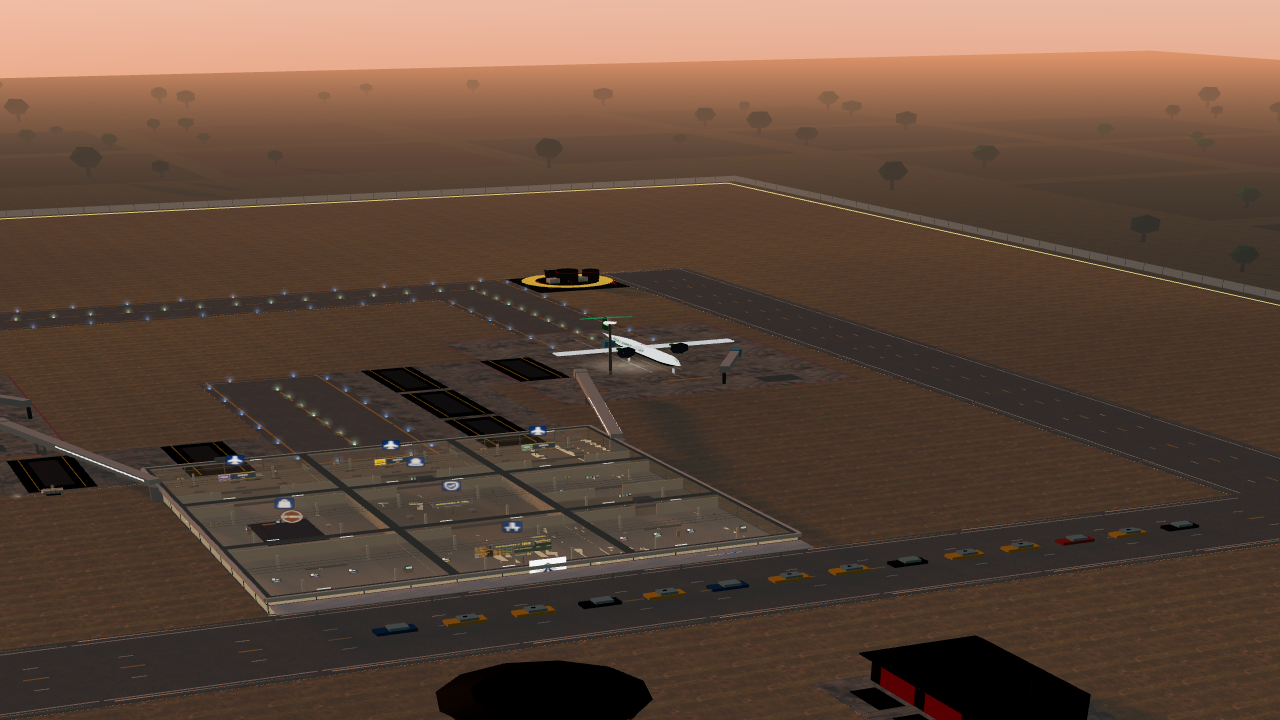
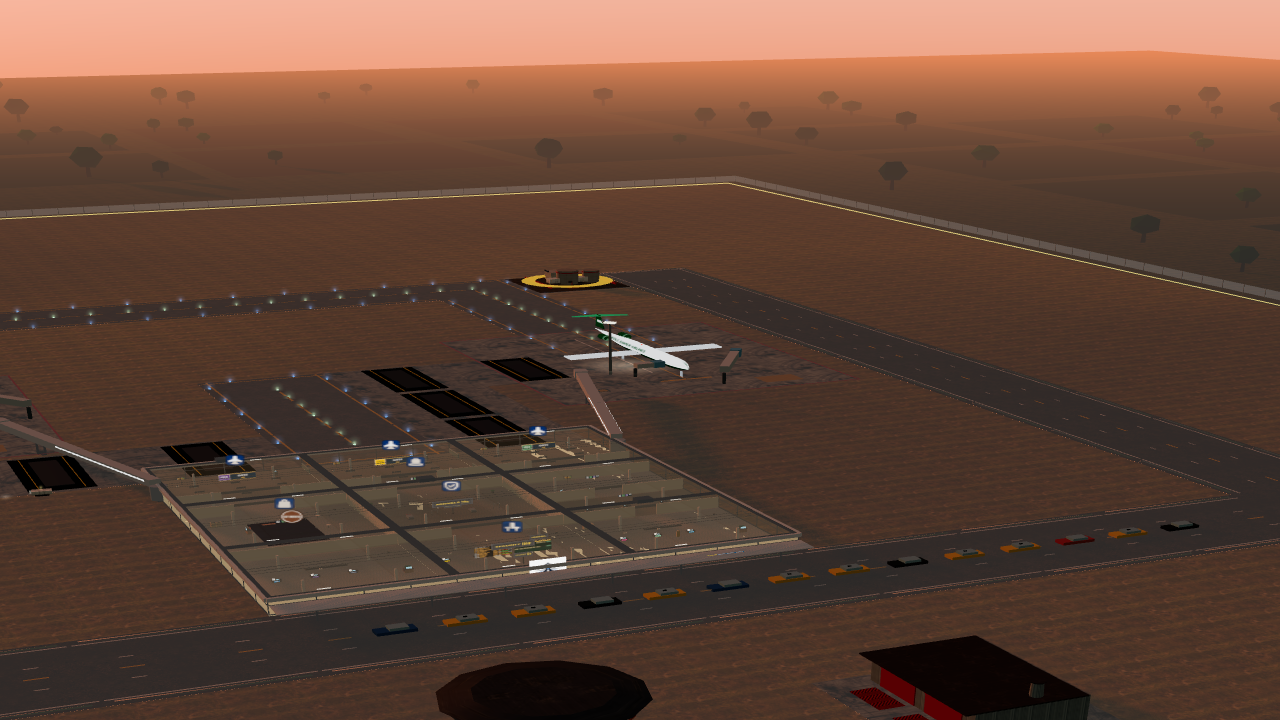
Show the sunrise sun while runway lights stay on, and save the cycle switch.
The sky keeps the moving moon and the warm dawn and dusk keys. Stars drop
only while the sun disc is up, so dawn and dusk read in play. Landing lamps
and helicopter nav lights keep their glow. One pause-menu switch freezes
late morning, and that choice is stored in settings and the airport save.

diff --git a/src/render/world/render.test.ts b/src/render/world/render.test.ts
@@ -357,24 +357,30 @@ describe('initWorldRender', () => {
     const { scene, sun } = legacyScene()
     const wr = initWorldRender(scene, 'high', { renderer: stubRenderer(), sun })
     const cam = camAt(0, 0, 80)
-    const night = blankView([], { clock: clockForHour(2, 23), dayNightCycle: false, weather: 'clear' })
-    wr.update(night, cam, 1 / 60)
-    expect(wr.dayNightSample.hour).toBeCloseTo(DAY_NIGHT.hold)
-    expect(wr.dayNightSample.lights).toBe(0)
-    expect(wr.dayNightSample.runwayEdge).toBe(0)
-    expect(sun.intensity).toBeGreaterThan(2)
-    wr.setTimeOfDay(DAY_NIGHT.shots.dusk)
-    wr.update(night, cam, 1 / 60)
-    expect(wr.dayNightSample.hour).toBeCloseTo(DAY_NIGHT.shots.dusk)
-    expect(wr.dayNightSample.lights).toBeGreaterThan(0.2)
-    wr.setTimeOfDay(null)
-    wr.update(night, cam, 1 / 60)
-    expect(wr.dayNightSample.hour).toBeCloseTo(DAY_NIGHT.hold)
-    wr.setDayNight({ hour: 23 })
-    wr.update(night, cam, 1 / 60)
-    expect(wr.dayNightSample.hour).toBeCloseTo(23)
-    expect(wr.dayNightSample.lights).toBe(1)
-    wr.dispose()
+    const night = blankView([], { clock: clockForHour(2, 23), weather: 'clear' })
+    sharedSettings().update((s) => ({ ...s, dayNightCycle: false }))
+    try {
+      wr.update(night, cam, 1 / 60)
+      expect(wr.dayNightSample.hour).toBeCloseTo(FIXED_DAY_HOUR)
+      expect(wr.dayNightSample.lights).toBe(0)
+      expect(wr.dayNightSample.runwayEdge).toBe(0)
+      expect(sun.intensity).toBeGreaterThan(2)
+      wr.setTimeOfDay(19)
+      wr.update(night, cam, 1 / 60)
+      expect(wr.dayNightSample.hour).toBeCloseTo(19)
+      expect(wr.dayNightSample.lights).toBeGreaterThan(0.2)
+      wr.setTimeOfDay(null)
+      wr.update(night, cam, 1 / 60)
+      expect(wr.dayNightSample.hour).toBeCloseTo(FIXED_DAY_HOUR)
+      wr.setDayNight({ hour: 23 })
+      wr.update(night, cam, 1 / 60)
+      expect(wr.dayNightSample.hour).toBeCloseTo(23)
+      expect(wr.dayNightSample.lights).toBe(1)
+    } finally {
+      sharedSettings().update((s) => ({ ...s, dayNightCycle: true }))
+      wr.setDayNight(null)
+      wr.dispose()
+    }
   })
 
   it('5x fast-forward goes lite without a rebuild', () => {

diff --git a/src/ui/PauseMenu.test.tsx b/src/ui/PauseMenu.test.tsx
@@ -1,6 +1,7 @@
 import { describe, expect, it } from 'vitest'
 import { renderToStaticMarkup } from 'react-dom/server'
 import { audioSettings } from '../audio/prefs.ts'
+import { readDayNightCycle } from '../features/settings/settings.ts'
 import { Game } from '../game/sim.ts'
 import { GameSettings } from './PauseMenu.tsx'
 import { newGameHintPrefs } from '../game/hints.ts'
@@ -58,8 +59,8 @@ describe('GameSettings', () => {
     const game = new Game()
     game.setDayNightCycle(true)
     const on = renderToStaticMarkup(<GameSettings game={game} />)
-    expect(on).toContain('data-testid="settings-day-night-cycle" checked=""')
-    expect(on).toContain('The sun moves from dawn to night.')
+    expect(on).toContain('data-testid="settings-day-night" checked=""')
+    expect(on).toContain('Day/night cycle: On')
 
     game.sandbox = true
     game.beginNew('easy')
@@ -69,9 +70,9 @@ describe('GameSettings', () => {
     expect(game.dayNightCycle).toBe(false)
     expect(readDayNightCycle()).toBe(false)
     const off = renderToStaticMarkup(<GameSettings game={game} />)
-    expect(off).toContain('data-testid="settings-day-night-cycle"')
-    expect(off).not.toContain('data-testid="settings-day-night-cycle" checked=""')
-    expect(off).toContain('Held at late morning')
+    expect(off).toContain('data-testid="settings-day-night"')
+    expect(off).not.toContain('data-testid="settings-day-night" checked=""')
+    expect(off).toContain('Fixed daytime')
 
     game.beginNew('easy')
     expect(game.dayNightCycle).toBe(false)

diff --git a/src/ui/PauseMenu.tsx b/src/ui/PauseMenu.tsx
@@ -219,21 +219,6 @@ export function GameSettings({ game, onNewGame }: { game: Game; onNewGame?: () =
           </li>
         ))}
       </ul>
-      <h3>Day and night</h3>
-      <label className="sandbox-toggle">
-        <input
-          type="checkbox"
-          data-testid="settings-day-night-cycle"
-          checked={game.dayNightCycle}
-          onChange={(e) => game.setDayNightCycle(e.target.checked)}
-        />
-        <span>Day and night cycle</span>
-      </label>
-      <p className="muted" data-testid="settings-day-night-note">
-        {game.dayNightCycle
-          ? 'The sun moves from dawn to night. Runway lights come on after dusk.'
-          : 'Held at late morning. The field stays in daylight until you turn the cycle back on.'}
-      </p>
       <h3>Graphics</h3>
       <div className="gfx-quality" role="radiogroup" aria-label="Graphics quality">
         {(['low', 'med', 'high', 'ultra'] as const).map((level) => (
@@ -263,8 +248,8 @@ export function GameSettings({ game, onNewGame }: { game: Game; onNewGame?: () =
           data-testid="settings-day-night"
           checked={audioMix.dayNightCycle}
           onChange={(e) => {
-            const next = audioSettings().update((s) => ({ ...s, dayNightCycle: e.target.checked }))
-            setAudioMix(next)
+            game.setDayNightCycle(e.target.checked)
+            setAudioMix(audioSettings().get())
           }}
         />
         <span>Day/night cycle: {audioMix.dayNightCycle ? 'On' : 'Off'}</span>

diff --git a/src/render/world/dayNight.ts b/src/render/world/dayNight.ts
@@ -193,21 +193,14 @@ export function resolveHour(
   return simClockToHour(clock)
 }
 
-/**
- * Hour the renderer paints. A photo override or a day/night control hour still
- * wins when the cycle is off, so camera tools keep working. Otherwise the
- * cycle-off switch holds `DAY_NIGHT.hold`.
- */
+/** Same precedence as `resolveHour`. Kept so older call sites stay on one resolver. */
 export function resolvePlayHour(
   clock: number,
   hourOverride: number | null,
   control: DayNightControl | null,
   cycleOn = true,
 ): number {
-  if (hourOverride != null && Number.isFinite(hourOverride)) return hourOverride
-  if (control?.hour != null && Number.isFinite(control.hour)) return control.hour
-  if (!cycleOn) return DAY_NIGHT.hold
-  return simClockToHour(clock)
+  return resolveHour(clock, hourOverride, control, cycleOn)
 }
 
 export type SkyPhotoId = 'dawn' | 'noon' | 'dusk' | 'night'

diff --git a/src/render/world/daylight.ts b/src/render/world/daylight.ts
@@ -92,6 +92,17 @@ export function lightsFactor(hour: number): number {
   return 1 - smoothstep(7.4, 8.2, h)
 }
 
+/**
+ * 1 when the sky should be a star field, 0 once the sun disc is up.
+ * Narrower than `lightsFactor`, so sunrise and sunset keep a visible sun
+ * while the runway lights are still on. True night stays at 1, so the moon disc remains.
+ */
+export function starsFactor(hour: number): number {
+  const h = ((hour % 24) + 24) % 24
+  if (h >= 12) return smoothstep(SUN_DISC.duskStart, SUN_DISC.duskEnd, h)
+  return 1 - smoothstep(SUN_DISC.dawnStart, SUN_DISC.dawnEnd, h)
+}
+
 function unit(v: { x: number; y: number; z: number }): { x: number; y: number; z: number } {
   const l = Math.hypot(v.x, v.y, v.z) || 1
   return { x: v.x / l, y: v.y / l, z: v.z / l }

diff --git a/src/features/settings/settings.ts b/src/features/settings/settings.ts
@@ -211,13 +211,6 @@ export class SettingsStore {
   }
 }
 
-let sharedStore: SettingsStore | undefined
-
-/** One store for audio, graphics prefs, and the day/night cycle switch. */
-export function sharedSettings(): SettingsStore {
-  return (sharedStore ??= new SettingsStore())
-}
-
 export function readDayNightCycle(store: SettingsStore = sharedSettings()): boolean {
   return store.get().dayNightCycle
 }

diff --git a/src/render/world/view.ts b/src/render/world/view.ts
@@ -29,8 +29,6 @@ export interface WorldView {
   tiles: Tile[][]
   mapRev: number
   clock?: number
-  /** False holds the sun at late morning. Missing means the cycle runs. */
-  dayNightCycle?: boolean
   weather?: Weather
   /** Set by a non-default map. Missing or null keeps today's sky and farmland. */
   mapDraw?: MapDraw | null

diff --git a/src/render/world/render.ts b/src/render/world/render.ts
@@ -12,7 +12,7 @@ import {
   applyDayNight,
   daylightFactor,
   idleDayNight,
-  resolvePlayHour,
+  resolveHour,
   SKY_PHOTO_WEATHER,
   skyPhotoBlend,
   type DayNightControl,
